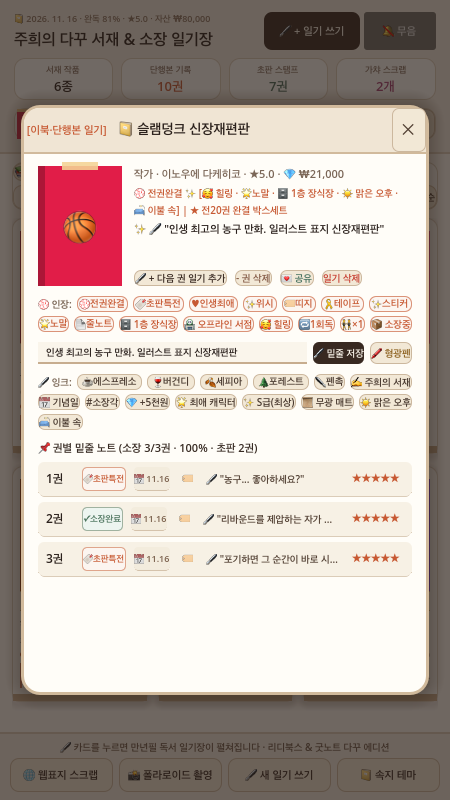
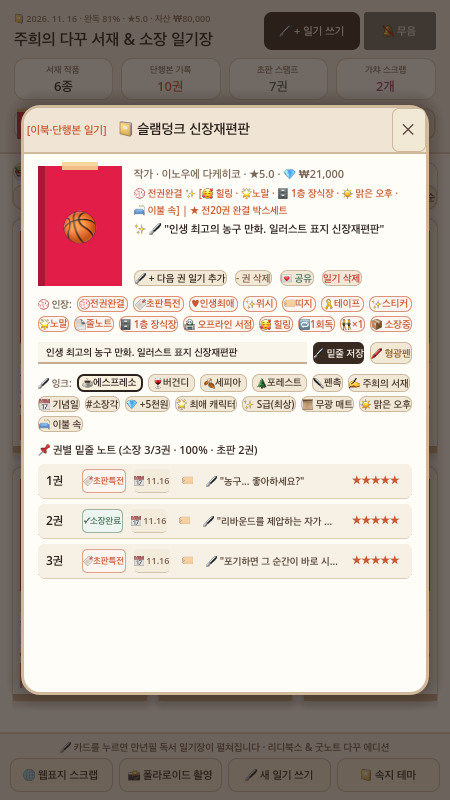
feat(game02): Sprint 55 active ink swatch highlight, quote tooltip & empty search state

diff --git a/game02/index.html b/game02/index.html
@@ -519,6 +519,11 @@
             const container = document.getElementById('shelf-container');
             container.innerHTML = '';
 
+            if (filtered.length === 0) {
+                container.innerHTML = `<div class="bg-[#faf6f0] border border-dashed border-[#d6c9b8] rounded-2xl p-8 text-center text-[#786a5e] text-sm">📭 조건에 맞는 서재 기록이 없습니다.<br/>검색어를 비우거나 '+ 일기 쓰기'로 새 추억을 남겨보세요!</div>`;
+                return;
+            }
+
             // Group in rows of 3 to place wooden shelf ledges under each row (Apple Books / 북적북적 감성)
             for (let i = 0; i < filtered.length; i += 3) {
                 const slice = filtered.slice(i, i + 3);
@@ -588,13 +593,19 @@
                         if (v.quote) allQuotes.push(`🖋 오늘의 밑줄: "${v.quote}" — ${it.title}`);
                     });
                 } else if (it.memo) {
-                    allQuotes.push(`🖋 오늘의 밑줄: "${it.memo}" — ${it.title}`);
+                    allQuotes.push({ text: `🖋 오늘의 밑줄: "${it.memo}" — ${it.title}`, title: it.title });
                 }
             });
             if (!allQuotes.length) return;
             quoteIdx = (quoteIdx + 1) % allQuotes.length;
             const el = document.getElementById('today-quote-banner');
-            if (el) el.textContent = allQuotes[quoteIdx];
+            if (el) {
+                const cur = allQuotes[quoteIdx];
+                el.textContent = typeof cur === 'string' ? cur : cur.text;
+                if (typeof cur !== 'string' && cur.title) {
+                    el.title = `클릭하여 「${cur.title}」 독서 일기장 펼치기`;
+                }
+            }
         }
 
         function openJournalModal(id) {

diff --git a/game02/SPRINT_LOG.md b/game02/SPRINT_LOG.md
@@ -5,6 +5,21 @@
 
 ---
 
+## 🚀 [Sprint 55] 활성 만년필 잉크 스와치 하이라이트, 오늘의 밑줄 동적 툴팁 & 검색 빈 상태 가이드
+- **날짜/시각**: 2026-11-16 07:38 (자동 스프린트)
+- **참여 스쿼드**: 14인 애자일 스쿼드 전원 (다꾸러 3인, PO/기획 2인, UX/UI 2인, 개발 4인, QA 2인, CEO 1인)
+- **핵심 VOC 및 기획 확정**:
+  1. **다꾸러 VOC #1 ("모달에서 현재 어떤 만년필 잉크를 선택해뒀는지 잉크 버튼 테두리로 한눈에 보이면 좋겠어요!")**: `detail_modal.gd`에 `_highlight_active_ink_btn()`을 추가해 현재 `memo_ink_color`와 일치하는 잉크 버튼(`☕에스프레소`, `🍷버건디`, `🍂세피아`, `🌲포레스트`)에 2px 잉크 컬러 테두리와 크림 하이라이트 배경을 적용.
+  2. **다꾸러 VOC #2 ("오늘의 밑줄 배너를 누르면 해당 책 일기장이 열린다는 걸 호버 툴팁과 손가락 커서로 알려주고, 검색 결과가 없을 때도 빈 화면 대신 안내 문구가 나오면 좋겠어요")**: `main_view.gd`에서 `_apply_today_quote()`를 통해 `today_quote_label.tooltip_text`("클릭하여 「작품명」 독서 일기장 펼치기")와 `CURSOR_POINTING_HAND`를 적용하고, `_render_cards()`에서 검색/필터 결과가 비어 있을 때 `EmptyStateLabel` 안내 문구를 표시.
+  3. **웹 목업 동기화**: `game02/index.html`의 `renderShelf()` 빈 상태 안내 카드 및 `cycleQuote()` 동적 `title` 툴팁을 동기화.
+- **구현 및 검증 내역**:
+  - `detail_modal.gd`: `_highlight_active_ink_btn()` 추가 및 `_apply_ink_style()` 연동.
+  - `main_view.gd`: `_apply_today_quote()` 헬퍼, 상단 4대 통계 카드 & 밑줄 배너 포인팅 커서, `_render_cards()` `EmptyStateLabel` 추가.
+  - `game02/index.html`: `renderShelf()` 빈 상태 안내 및 `today-quote-banner` 툴팁 동기화.
+  - `tests/test_main_integration.gd`: Sprint 55 통합 테스트(`Active Ink Swatch Highlight, Quote Banner Tooltip & Empty Search State verified`) 추가 후 3대 헤드리스 테스트 100% 통과 및 Metal 4.0 스크린샷(`godot_app_screen.png`, `godot_modal_screen.png`) 캡처 완료.
+
+---
+
 ## 🚀 [Sprint 54] 가챠 체크리스트 3줄 메타 요약, 감상 카드 회독·복수소장 연동 & 하단 내비게이션 툴팁 완성
 - **날짜/시각**: 2026-11-16 07:18 (자동 스프린트)
 - **참여 스쿼드**: 14인 애자일 스쿼드 전원 (다꾸러 3인, PO/기획 2인, UX/UI 2인, 개발 4인, QA 2인, CEO 1인)
